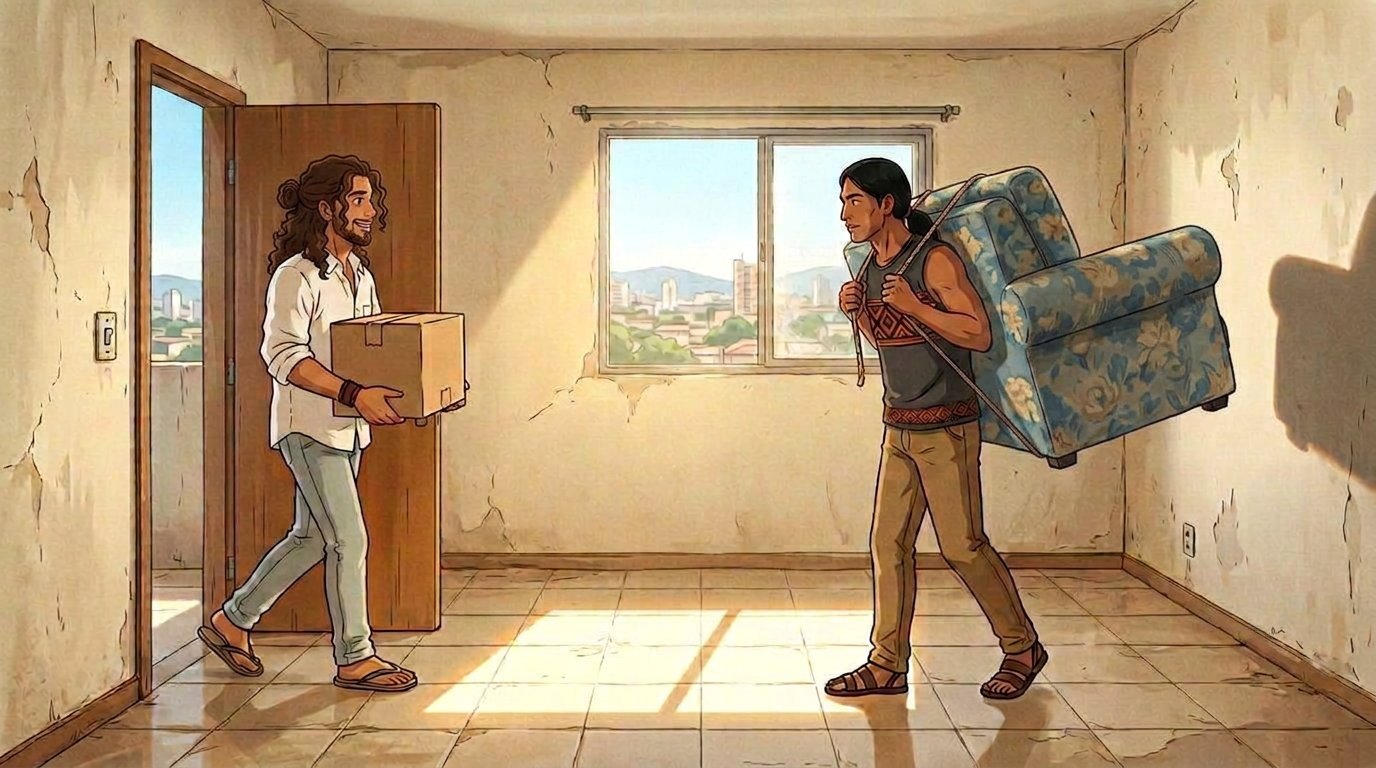
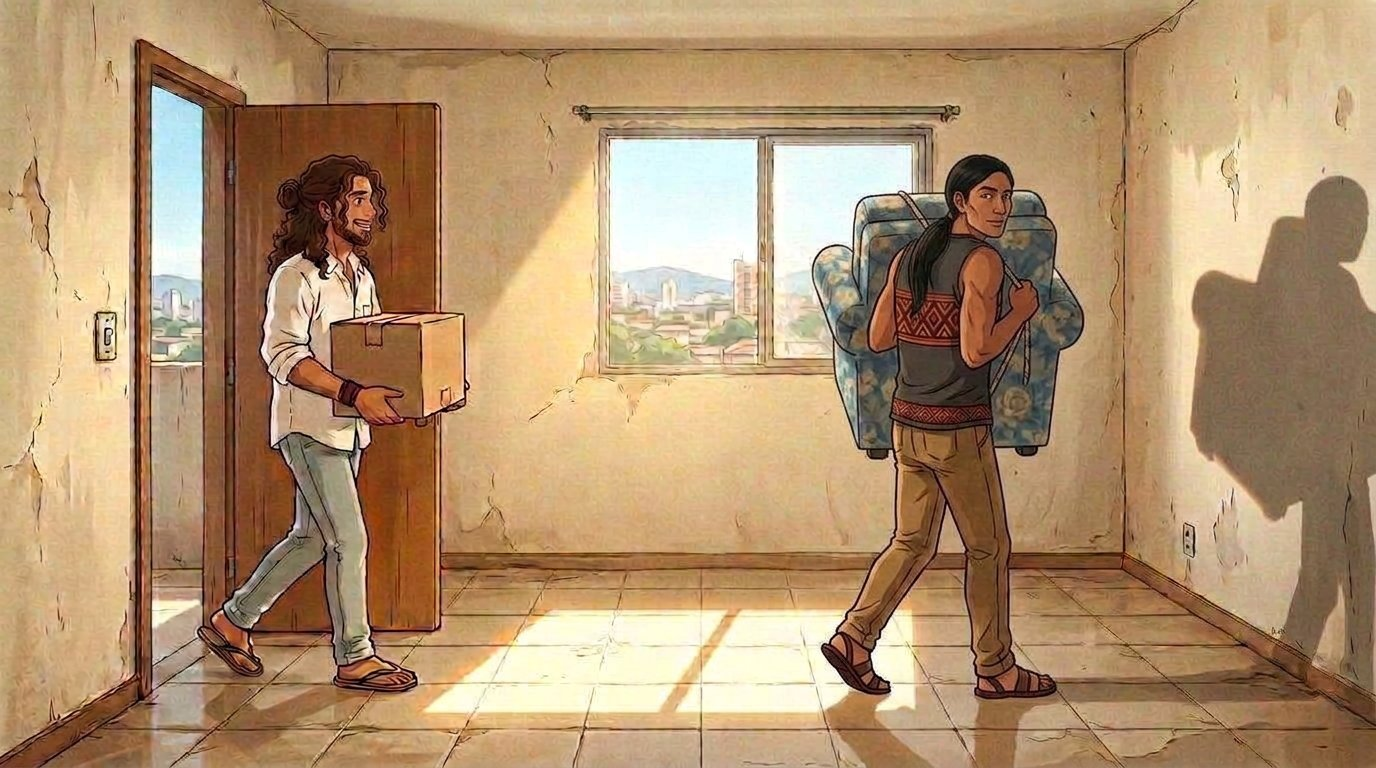
Turn Tupã away from Jesus in Ep1 clip 2 opening frame

diff --git a/historias/santos-do-cerrado/episodio-01-quarenta-graus.md b/historias/santos-do-cerrado/episodio-01-quarenta-graus.md
@@ -35,7 +35,7 @@ Plano aéreo amplo de Cuiabá, Mato Grosso, ao meio-dia: telhados de terracota, 
 
 **Prompt da imagem (frame):**
 ```text
-Interior de apartamento vazio em Cuiabá: sala pequena de piso de cerâmica bege, paredes descascadas, janela sem cortina com sol forte entrando e projetando retângulo de luz no chão. JESUS: homem brasileiro de 30 anos, pele morena clara, cabelo castanho-escuro cacheado e comprido, na altura dos ombros, preso num coque baixo despojado na nuca, com cachos soltos emoldurando o rosto, barba curta, camisa de linho branca de botão com mangas dobradas, calça jeans clara, chinelo de dedo, pulseira de couro no pulso — entra sorrindo com uma caixa de papelão nos braços. TUPÃ: homem indígena de 30 anos, pele morena, rosto COMPLETAMENTE BARBEADO, sem barba, sem bigode, sem cavanhaque, sem tatuagens nos braços, cabelo preto liso na altura dos ombros preso em rabo de cavalo baixo, camiseta regata cinza-escura com UMA faixa horizontal de grafismo geométrico guarani atravessada no peito (losangos e zigue-zagues em terracota e preto) e o mesmo motivo pequeno repetido na barra inferior, calça de sarja, sandália de couro, pulseira de sementes — atravessa a sala carregando um sofá velho nas costas, tranquilo. ESTILO: anime cinematográfico 2D, cel shading limpo, traço fino, fundo pintado à mão no estilo Ghibli x A-1 Pictures, luz brasileira quente, cores saturadas, grão de filme suave, 16:9, sem texto, sem letreiro, sem logo, sem legenda.
+Interior de apartamento vazio em Cuiabá: sala pequena de piso de cerâmica bege, paredes descascadas, janela sem cortina com sol forte entrando e projetando retângulo de luz no chão. JESUS: homem brasileiro de 30 anos, pele morena clara, cabelo castanho-escuro cacheado e comprido, na altura dos ombros, preso num coque baixo despojado na nuca, com cachos soltos emoldurando o rosto, barba curta, camisa de linho branca de botão com mangas dobradas, calça jeans clara, chinelo de dedo, pulseira de couro no pulso — entra sorrindo com uma caixa de papelão nos braços. TUPÃ: homem indígena de 30 anos, pele morena, rosto COMPLETAMENTE BARBEADO, sem barba, sem bigode, sem cavanhaque, sem tatuagens nos braços, cabelo preto liso na altura dos ombros preso em rabo de cavalo baixo, camiseta regata cinza-escura com UMA faixa horizontal de grafismo geométrico guarani atravessada no peito (losangos e zigue-zagues em terracota e preto) e o mesmo motivo pequeno repetido na barra inferior, calça de sarja, sandália de couro, pulseira de sementes — atravessa a sala carregando um sofá velho nas costas, de costas para Jesus, corpo voltado para o lado direito do quadro e rosto legível em três quartos (no máximo 45° de perfil). ESTILO: anime cinematográfico 2D, cel shading limpo, traço fino, fundo pintado à mão no estilo Ghibli x A-1 Pictures, luz brasileira quente, cores saturadas, grão de filme suave, 16:9, sem texto, sem letreiro, sem logo, sem legenda.
 ```
 
 **Prompt do vídeo (5 s):** está em **[03-prompts-de-video.md](03-prompts-de-video.md)** → *CLIPE 02* (formato *first & last frame*, com **duas imagens**):

diff --git a/historias/santos-do-cerrado/04-prompts-de-transicao.md b/historias/santos-do-cerrado/04-prompts-de-transicao.md
@@ -87,7 +87,7 @@ VOICES — FIXED CAST VOICES, IDENTICAL IN EVERY SHOT (never swap them):
 DURATION: 5 seconds.
 FIRST FRAME: exactly the still of the previous clip's last frame, unchanged — same framing, same characters, same light.
 LAST FRAME: exactly the still of the next clip's first frame, unchanged — same framing, same characters, same light.
-MOTION: the camera pushes in from the street toward the old building, slips through the open ground-floor door, crosses a dim stairwell and emerges into the empty living room, where the rectangle of sunlight is already lying on the beige tile. The sidewalk boxes and the truck slide out of frame behind the camera.
+MOTION: the camera pushes in from the street toward the old building, slips through the open ground-floor door, crosses a dim stairwell and enters the living room. Jesus arrives carrying a cardboard box while Tupã carries the blue floral sofa toward the right side of the room, his back turned toward Jesus and his face still readable in three-quarter view. The rectangle of sunlight lies across the beige tile.
 CAMERA: one continuous forward push-in, no cuts, no zoom, steady and slow.
 SPEECH (Brazilian Portuguese, PT-BR): none. No dialogue in this bridge — nobody speaks, so no lip-sync is needed.
 VOICES — FIXED CAST VOICES, IDENTICAL IN EVERY SHOT (never swap them):

diff --git a/historias/santos-do-cerrado/03-prompts-de-video.md b/historias/santos-do-cerrado/03-prompts-de-video.md
@@ -116,7 +116,7 @@ STYLE: cinematic 2D anime, clean cel shading, thin linework, hand-painted backgr
 
 ```text
 DURATION: 5 seconds.
-FIRST FRAME: empty apartment living room, sunlight rectangle on the beige ceramic floor. JESUS enters from the doorway holding a cardboard box and talking; TUPÃ crosses the room carrying a floral sofa on his back.
+FIRST FRAME: empty apartment living room, sunlight rectangle on the beige ceramic floor. JESUS enters from the doorway holding a cardboard box and talking; TUPÃ carries the blue floral sofa on his back, his body facing toward the right side of the frame with his back toward Jesus, while his head turns back in a clear three-quarter view (no more than 45 degrees in profile).
 LAST FRAME: the sofa is down on the floor, TUPÃ straightening up, and JESUS beside it stretching his lower back, laughing, the box already on the ground.
 MOTION: one single movement — TUPÃ walks from left to right and lowers the sofa without stopping; JESUS follows him into the room, keeps talking, and only at the very end straightens his back with a tired laugh. Both stay on their feet, no cuts.
 CAMERA: slow lateral tracking following them, chest height, gentle parallax with the window light.
